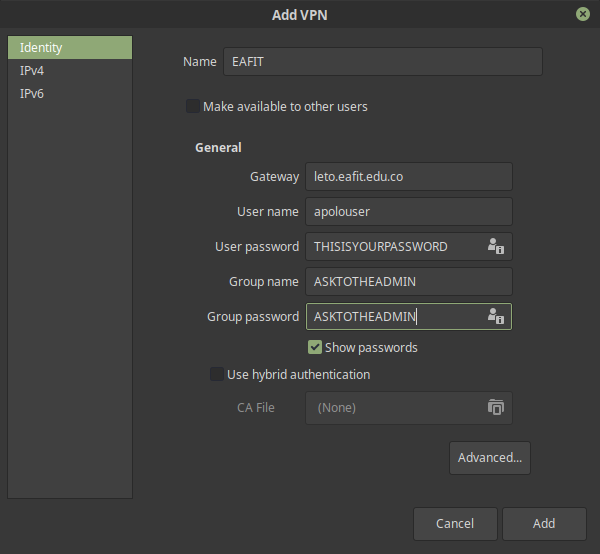
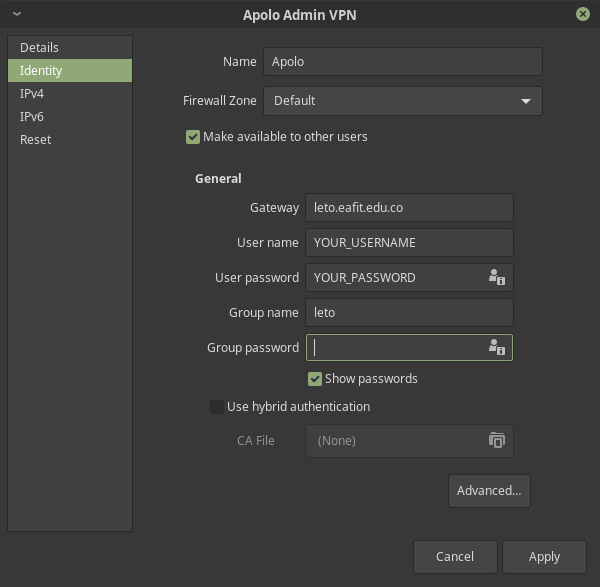
Updating VPN connection steps

diff --git a/docs/source/gettingstarted/configure_vpn.rst b/docs/source/gettingstarted/configure_vpn.rst
@@ -3,7 +3,7 @@
 Windows and Mac OSX
 -------------------
 To configure the VPN on Windows and Mac OS X systems, you must follow exactly the same procedure. Here are the steps to
-download and configurate the VPN client:
+download and configure the VPN client:
 
 #. Open your favorite browser and go to https://leto.eafit.edu.co
 
@@ -17,13 +17,13 @@ download and configurate the VPN client:
         :align: center
         :alt: Access to the not certified web page
 
-#. Login with your **username** and **password** given by EAFIT or Apolo's staff
+#. Log in with your **username** and **password** given by EAFIT or Apolo's staff
 
     .. image:: images/3-browser-leto.PNG
         :align: center
         :alt: Login
 
-#. Download and install the version of Global Protect client according your operating system
+#. Download and install the version of Global Protect client according to your operating system
     .. image:: images/4-browser-leto.PNG
         :align: center
         :alt: Download the proper version
@@ -34,7 +34,7 @@ download and configurate the VPN client:
         :align: center
         :alt: Install app
 
-#. Choose where to install it, take in account your permissions on the system
+#. Choose where to install it, take into account your permissions on the system
 
     .. image:: images/6-globalprotect-install.PNG
         :align: center
@@ -74,7 +74,7 @@ download and configurate the VPN client:
     - **Username:** The username assigned by EAFIT or the System Administrator
     - **Password:** The password of your EAFIT account or the password assigned by the system administrator
 
-#. Once connected to the VPN, you will see the word Connected as showed in the image
+#. Once connected to the VPN, you will see the word Connected as shown in the image
 
     .. image:: images/12-globalprotect-conf.PNG
         :align: center
@@ -86,16 +86,15 @@ download and configurate the VPN client:
         :align: center
         :alt: Details
 
-
 Linux
 -----
 .. note::
     Depending on your distribution this procedure could change.
 
 To configure the VPN on Linux, you have to use your package manager to install a Cisco Compatible VPN client. The most
-common client is vpnc, which is embedded on a set of scripts in the package. Usually the package with this scripts is
-called `network-manager-vpnc`. If you use Gnome or a Gnome compatible window manager you can install the package
-network-manager-vpnc-gnome. If you use KDE or a KDE compatible window manager you can install the package kvpnc.
+common client is vpnc, which is embedded on a set of scripts in the package. Usually, the package with these scripts is
+called :code:`network-manager-vpnc`. If you use Gnome or a Gnome compatible window manager you should install the
+:code:`network-manager-vpnc-gnome` and :code:`vpnc` packages. If you use KDE or a KDE compatible window manager you can install the package kvpnc.
 
 .. code-block:: bash
     :emphasize-lines: 3,9
@@ -114,7 +113,8 @@ network-manager-vpnc-gnome. If you use KDE or a KDE compatible window manager yo
     p   vpnc                              - Cisco-compatible VPN client
     p   vpnc:i386                         - Cisco-compatible VPN client
     p   vpnc-scripts                      - Network configuration scripts for VPNC and OpenConnect
-    $ sudo apt install network-manager-vpnc-gnome
+
+    $ sudo apt install vpnc network-manager-vpnc-gnome
 
 Once the correct package is installed according to your distribution, you can proceed to configure the VPN client.
 
@@ -123,51 +123,52 @@ Once the correct package is installed according to your distribution, you can pr
     The following procedure may vary depending on the package installed. We are going to use the configuration for network-manager-vpnc-gnome
     due this is the most common package on usual Linux distributions.
 
-#. Open the main menu and System Settings
+.. warning::
+
+    It is strongly recommended to log out and log in before to start the following steps because there are some cases where the VPN connection does not
+    work until log out or reboot is performed after the package installation.
+
+#. Open the main menu and System Settings.
 
     .. image:: images/systemsettings.png
         :align: center
         :alt: System Settings
 
-#. Look for Network item on Hardware section
+#. Look for Network item on Hardware section.
 
     .. image:: images/systemsettingsnetwork.png
         :align: center
         :alt: Look for Network
 
-#. Click on the plus symbol to add a new connection
+#. Click on the plus symbol to add a new connection.
 
     .. image:: images/systemsettingsnetworkadd.png
         :align: center
         :alt: Add a new connection
 
-#. Choose Cisco Compatible VPN (vpnc)
+#. Choose Import from file...
 
     .. image:: images/systemsettingsnetworkchoose.png
         :align: center
         :alt: Add a new connection
 
-#. Configure with the following parameters and later click on advanced
+
+   .. note:: The file will be provided by the system administrator, please request it before to continue with this guide.
+
+#. Once the file has been imported you just need to add your username and password provided by the administrator. Note that
+   the group password is filled automatically by the imported file.
 
     .. image:: images/systemsettingsnetworkconfig.png
         :align: center
         :alt: Fill the fields
 
-    - **Gateway:** leto.eafit.edu.co
-    - **User name:** your username on EAFIT or the given by system administrator
-    - **User password:** your given on EAFIT or the given by system administrator
-    - **Group name:** Ask for this group name to the system administrator
-    - **Group password:** Ask for this group password to the system administrator
-    - **Use hybrid authentication:** leave unchecked
-    - **CA File:** leave in (None)
-
-#. On advanced options fill the field **Domain** with *eafit.edu.co*
+#. On IPv4 options on the left panel, please add the following route and apply the configuration.
 
     .. image:: images/systemsettingsnetworkconfigadvanced.png
         :align: center
         :alt: Advanced configuration
 
-#. Now you can connect to the cluster across the VPN
+#. Now you can connect to the cluster through the VPN.
 
 Troubleshooting
 ---------------
